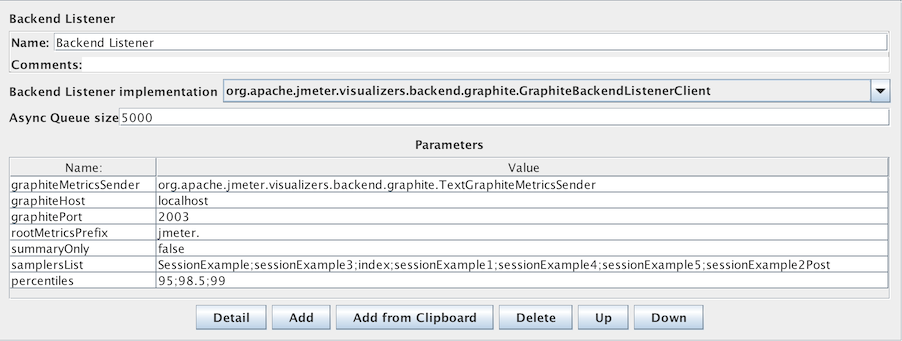
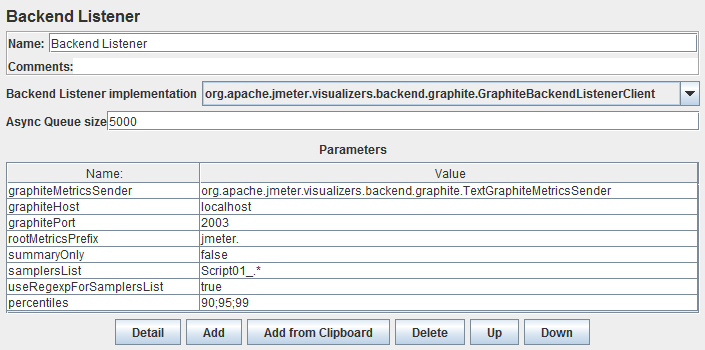
Add the possibility to use reg ex in Backend listener

diff --git a/src/components/org/apache/jmeter/visualizers/backend/graphite/GraphiteBackendListenerClient.java b/src/components/org/apache/jmeter/visualizers/backend/graphite/GraphiteBackendListenerClient.java
@@ -38,6 +38,8 @@ import org.apache.jmeter.visualizers.backend.BackendListenerContext;
 import org.apache.jmeter.visualizers.backend.SamplerMetric;
 import org.apache.jorphan.logging.LoggingManager;
 import org.apache.log.Logger;
+import java.util.regex.Matcher;
+import java.util.regex.Pattern;
 
 /**
  * Graphite based Listener using Pickle Protocol
@@ -99,6 +101,7 @@ public class GraphiteBackendListenerClient extends AbstractBackendListenerClient
     private boolean summaryOnly;
     private String rootMetricsPrefix;
     private String samplersList = ""; //$NON-NLS-1$
+    private boolean useRegexpForSamplersList;
     private Set<String> samplersToFilter;
     private Map<String, Float> okPercentiles;
     private Map<String, Float> koPercentiles;
@@ -109,6 +112,8 @@ public class GraphiteBackendListenerClient extends AbstractBackendListenerClient
 
     private ScheduledExecutorService scheduler;
     private ScheduledFuture<?> timerHandle;
+    
+    private Pattern pattern;
     
     public GraphiteBackendListenerClient() {
         super();
@@ -207,12 +212,22 @@ public class GraphiteBackendListenerClient extends AbstractBackendListenerClient
     @Override
     public void handleSampleResults(List<SampleResult> sampleResults,
             BackendListenerContext context) {
+    	boolean samplersToFilterMatch;
         synchronized (LOCK) {
             for (SampleResult sampleResult : sampleResults) {
                 getUserMetrics().add(sampleResult);
-                if(!summaryOnly && samplersToFilter.contains(sampleResult.getSampleLabel())) {
-                    SamplerMetric samplerMetric = getSamplerMetric(sampleResult.getSampleLabel());
-                    samplerMetric.add(sampleResult);
+                
+                if(!summaryOnly) {
+                    if (useRegexpForSamplersList) {
+                    	Matcher matcher = pattern.matcher(sampleResult.getSampleLabel());
+                    	samplersToFilterMatch = matcher.matches();
+                    } else {
+                    	samplersToFilterMatch = samplersToFilter.contains(sampleResult.getSampleLabel()); 
+                    }
+                    if (samplersToFilterMatch) {
+                        SamplerMetric samplerMetric = getSamplerMetric(sampleResult.getSampleLabel());
+                        samplerMetric.add(sampleResult);
+                    }
                 }
                 SamplerMetric cumulatedMetrics = getSamplerMetric(CUMULATED_METRICS);
                 cumulatedMetrics.add(sampleResult);                    
@@ -228,6 +243,7 @@ public class GraphiteBackendListenerClient extends AbstractBackendListenerClient
         graphitePort = context.getIntParameter("graphitePort", DEFAULT_PLAINTEXT_PROTOCOL_PORT);
         summaryOnly = context.getBooleanParameter("summaryOnly", true);
         samplersList = context.getParameter("samplersList", "");
+        useRegexpForSamplersList = context.getBooleanParameter("useRegexpForSamplersList", false);
         rootMetricsPrefix = context.getParameter("rootMetricsPrefix", DEFAULT_METRICS_PREFIX);
         String percentilesAsString = context.getParameter("percentiles", DEFAULT_METRICS_PREFIX);
         String[]  percentilesStringArray = percentilesAsString.split(SEPARATOR);
@@ -260,9 +276,13 @@ public class GraphiteBackendListenerClient extends AbstractBackendListenerClient
         Class<?> clazz = Class.forName(graphiteMetricsSenderClass);
         this.graphiteMetricsManager = (GraphiteMetricsSender) clazz.newInstance();
         graphiteMetricsManager.setup(graphiteHost, graphitePort, rootMetricsPrefix);
-        String[] samplers = samplersList.split(SEPARATOR);
-        samplersToFilter = new HashSet<>();
-        Collections.addAll(samplersToFilter, samplers);
+        if (!useRegexpForSamplersList) {
+	        String[] samplers = samplersList.split(SEPARATOR);
+	        samplersToFilter = new HashSet<>();
+	        Collections.addAll(samplersToFilter, samplers);
+        } else {
+        	pattern = Pattern.compile(samplersList);
+        }
         scheduler = Executors.newScheduledThreadPool(MAX_POOL_SIZE);
         // Don't change this as metrics are per second
         this.timerHandle = scheduler.scheduleAtFixedRate(this, ONE_SECOND, ONE_SECOND, TimeUnit.SECONDS);
@@ -297,6 +317,7 @@ public class GraphiteBackendListenerClient extends AbstractBackendListenerClient
         arguments.addArgument("rootMetricsPrefix", DEFAULT_METRICS_PREFIX);
         arguments.addArgument("summaryOnly", "true");
         arguments.addArgument("samplersList", "");
+        arguments.addArgument("useRegexpForSamplersList", "false");
         arguments.addArgument("percentiles", DEFAULT_PERCENTILES);
         return arguments;
     }
